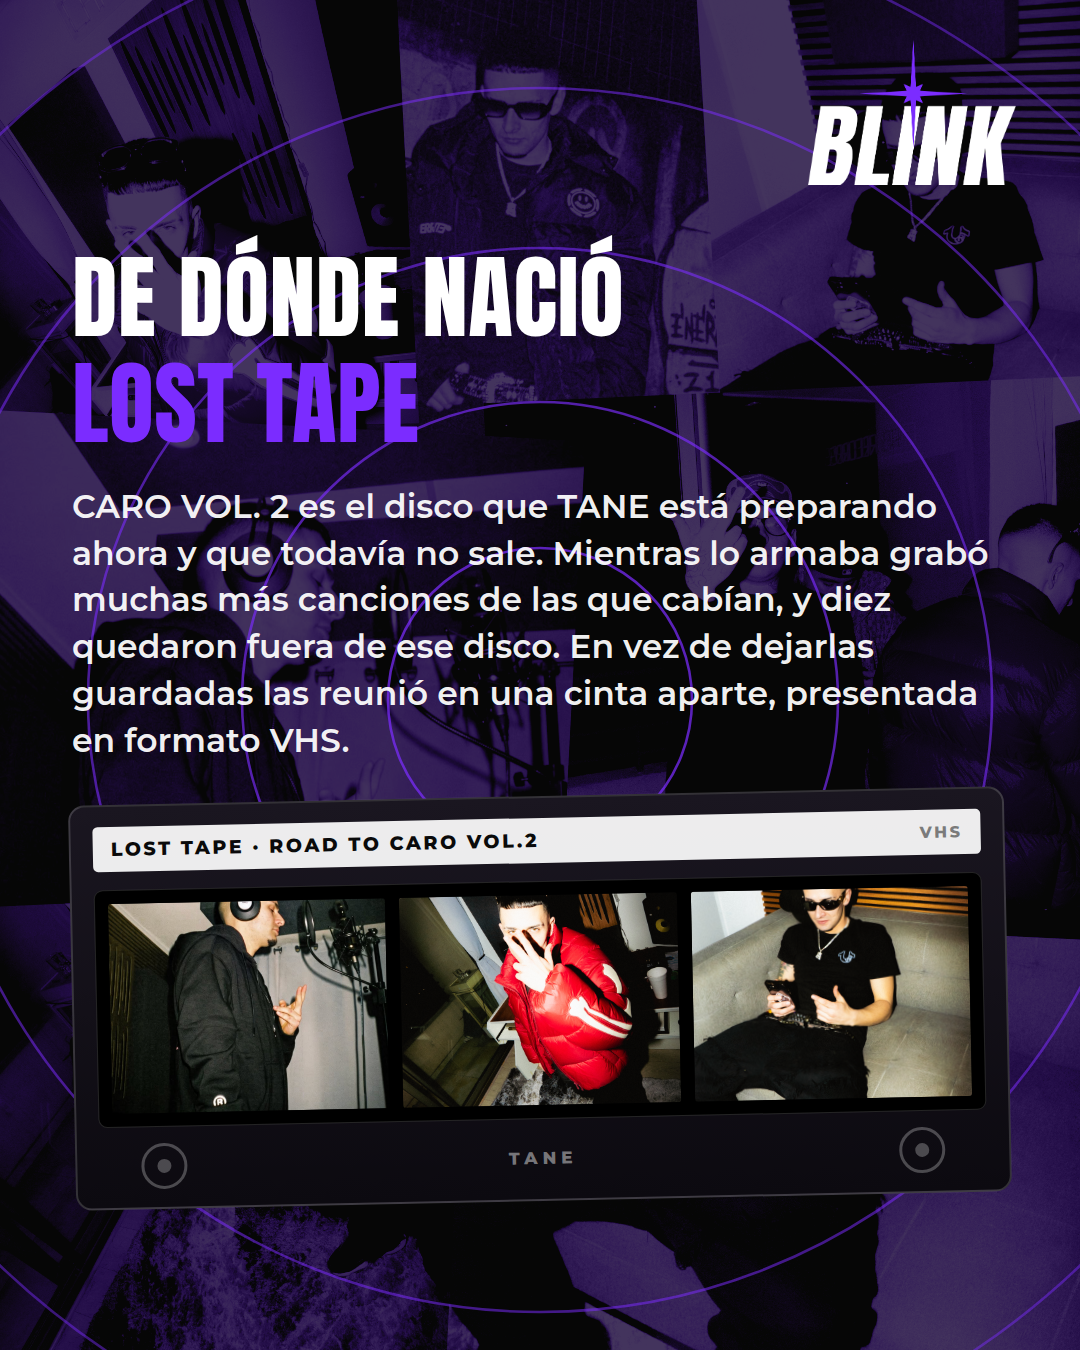
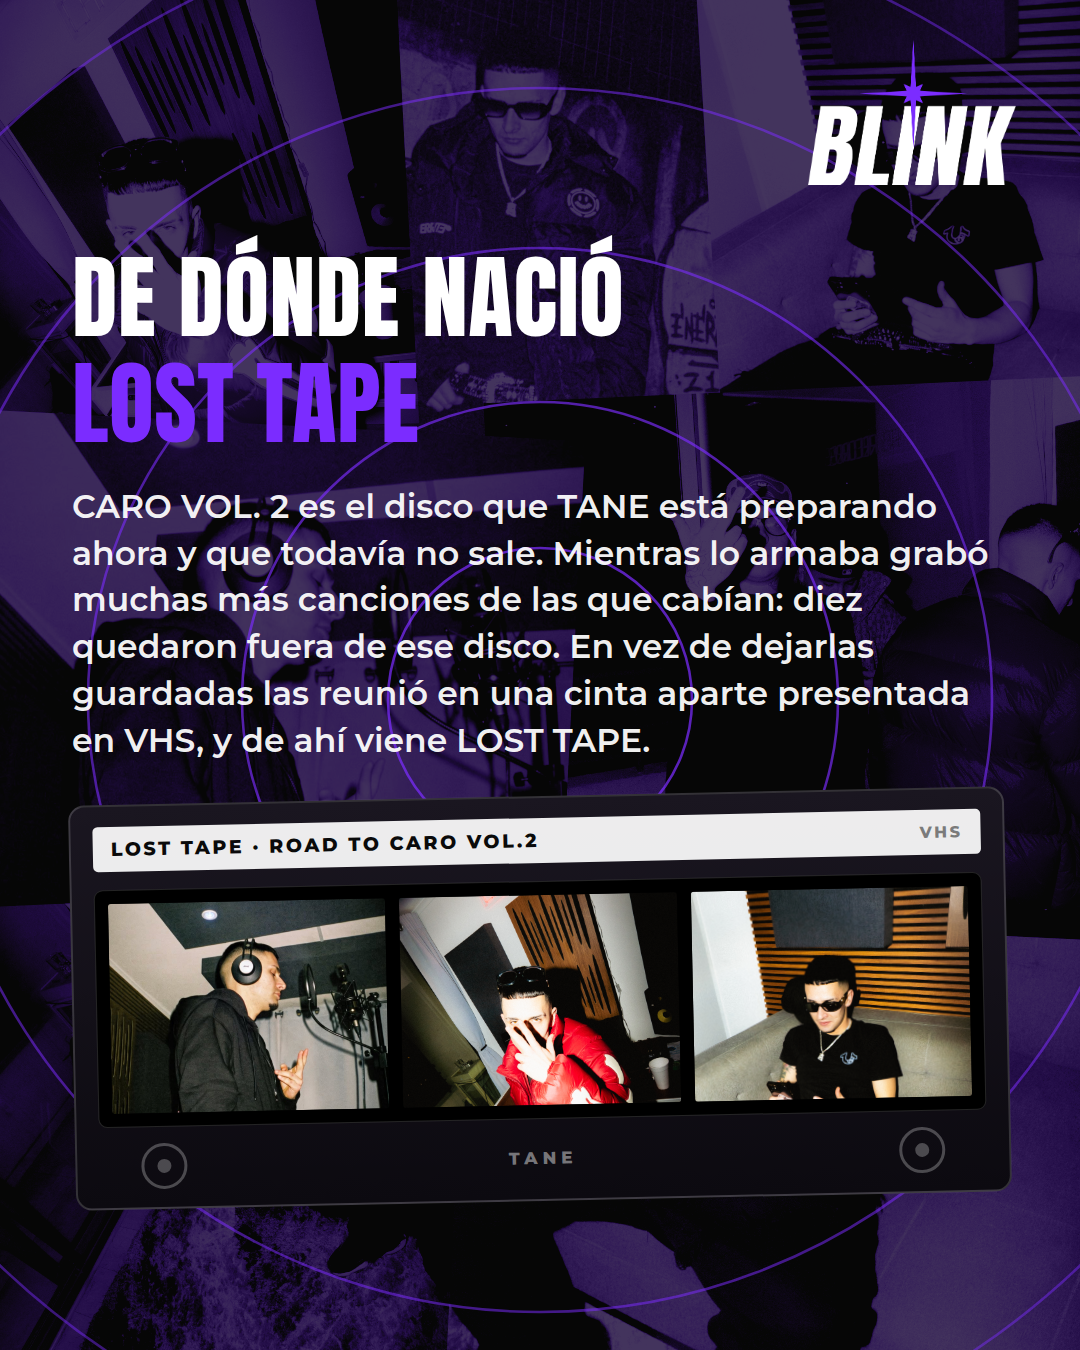
Blink Radar TANE: textos de Mia y encuadre de las fotos
- La lámina de quién es lleva el texto tal como lo escribió Mia.
- La de dónde nació LOST TAPE cierra con "y de ahí viene LOST TAPE".
- Las tres fotos del casete bajan: con el encuadre por defecto quedaban
  cortadas de la cabeza. Queda anotado que cada foto enmarcada necesita su
  propio encuadre.
- La de los acompañantes se resume en dos párrafos, con más aire antes de las
  fotos, más chicas y con las personas al centro.

Claude-Session: https://claude.ai/code/session_01NF4PN4Z1tGA2GQg6PseM5W

diff --git a/radar-tane.html b/radar-tane.html
@@ -133,16 +133,16 @@
   }
   .conFoto .carta img{ width:100%; height:100%; object-fit:cover; object-position:50% 24%; }
 
-  .parDeFotos{ display:flex; gap:26px; }
+  .parDeFotos{ display:flex; gap:26px; margin-top:24px; }
   .parDeFotos figure{
-    flex:1; height:316px; overflow:hidden;
+    flex:1; height:272px; overflow:hidden;
     border:5px solid rgba(255,255,255,.94); border-radius:3px;
   }
   .parDeFotos figure:first-child{ transform:rotate(-1.8deg); }
   .parDeFotos figure:last-child{ transform:rotate(1.8deg); }
   .parDeFotos img{ width:100%; height:100%; object-fit:cover; }
-  .parDeFotos figure:first-child img{ object-position:50% 40%; }
-  .parDeFotos figure:last-child img{ object-position:50% 34%; }
+  .parDeFotos figure:first-child img{ object-position:50% 44%; }
+  .parDeFotos figure:last-child img{ object-position:50% 42%; }
 
   /* El casete: carcasa, etiqueta arriba, ventana con la cinta y los carretes. */
   .cinta{
@@ -171,6 +171,9 @@
   }
   .cinta .ventana div{ flex:1; height:210px; overflow:hidden; border-radius:3px; }
   .cinta .ventana img{ width:100%; height:100%; object-fit:cover; }
+  .cinta .ventana div:nth-child(1) img{ object-position:50% 6%; }
+  .cinta .ventana div:nth-child(2) img{ object-position:50% 18%; }
+  .cinta .ventana div:nth-child(3) img{ object-position:50% 14%; }
   .cinta .carretes{
     margin-top:16px; display:flex; align-items:center; justify-content:space-between;
     padding:0 42px;
@@ -303,11 +306,11 @@ const LAMINAS = {
       titular("Más de diez años", "en el trap chileno") +
       '<div class="conFoto">' +
         '<div class="columna">' +
-          '<p class="texto">TANE es Tomás Gutiérrez, de Santiago, y lleva más de diez ' +
-          'años haciendo trap: ya estaba dando vueltas cuando la escena chilena ' +
+          '<p class="texto">TANE es Tomás Gutiérrez, de Santiago, lleva más de 10 ' +
+          'años haciendo trap y ya estaba en el radar cuando la escena chilena ' +
           'recién se armaba.</p>' +
-          '<p class="texto">Hoy tiene su propio estudio, CARO RÉCORDS, y quiere subir ' +
-          'de nivel, pero con la intención de conectar con más gente.</p>' +
+          '<p class="texto">Hoy quiere subir de nivel, pero con la intención de ' +
+          'conectar con más gente.</p>' +
         '</div>' +
         '<div class="carta"><img src="TANE 2.png" alt=""></div>' +
       '</div>' +
@@ -331,8 +334,8 @@ const LAMINAS = {
       titular("De dónde nació", "LOST TAPE") +
       '<p class="texto">CARO VOL. 2 es el disco que TANE está preparando ahora y que ' +
       'todavía no sale. Mientras lo armaba grabó muchas más canciones de las que ' +
-      'cabían, y diez quedaron fuera de ese disco. En vez de dejarlas guardadas las ' +
-      'reunió en una cinta aparte, presentada en formato VHS.</p>' +
+      'cabían: diez quedaron fuera de ese disco. En vez de dejarlas guardadas las ' +
+      'reunió en una cinta aparte presentada en VHS, y de ahí viene LOST TAPE.</p>' +
       cinta(["TANE 2.png", "TANE 8.JPEG", "TANE 7.JPEG"],
             "Lost Tape · Road to Caro Vol.2") +
     '</div>' },
@@ -352,10 +355,10 @@ const LAMINAS = {
     '<div class="cuerpo">' +
       titular("Los que acompañan", "a TANE en LOST TAPE") +
       '<p class="texto">Cantan con él Baby Jey, Jamez Manuel, Kuroh, ALBLACK, Poison ' +
-      'Kid, Pablo Diablo y el mexicano Sleezy O. Cinco de ellos ya habían estado en ' +
-      'CARO VOL. 1, y buena parte del disco se grabó en La Sede, la casa-estudio que ' +
-      'se armó en pandemia y donde TANE vivió con varios. La producción la firma él ' +
-      'mismo junto a Loose, Killua97 y Discan.</p>' +
+      'Kid, Pablo Diablo y el mexicano Sleezy O; cinco ya habían estado en ' +
+      'CARO VOL. 1.</p>' +
+      '<p class="texto">El disco se grabó en La Sede, la casa-estudio donde TANE vivió ' +
+      'con varios de ellos, y lo produjo él junto a Loose, Killua97 y Discan.</p>' +
       '<div class="parDeFotos">' +
         '<figure><img src="TANE 9.JPEG" alt=""></figure>' +
         '<figure><img src="TANE 5.JPEG" alt=""></figure>' +

diff --git a/CLAUDE.md b/CLAUDE.md
@@ -402,6 +402,9 @@ publicación. La base viene del Radar de Kittkatta y es así:
   que explica que el disco salió en ese formato. Mia rechazó una primera
   versión hecha de tiras con perforaciones: "parece muy de Canva, se ve pobre".
   Si el objeto existe de verdad, hay que dibujarlo como es.
+- **Cada foto metida en un marco necesita su propio encuadre vertical.** El
+  centrado por defecto corta las cabezas, sobre todo en las fotos verticales.
+  Hay que mirarlas una por una antes de dar la lámina por buena.
 - **Las fotos van agrupadas y proporcionales, nunca intercaladas.** Texto,
   imagen gigante, texto otra vez se ve saturado. O la foto va al lado de la
   columna de texto, o van dos del mismo tamaño debajo de todo el texto.
